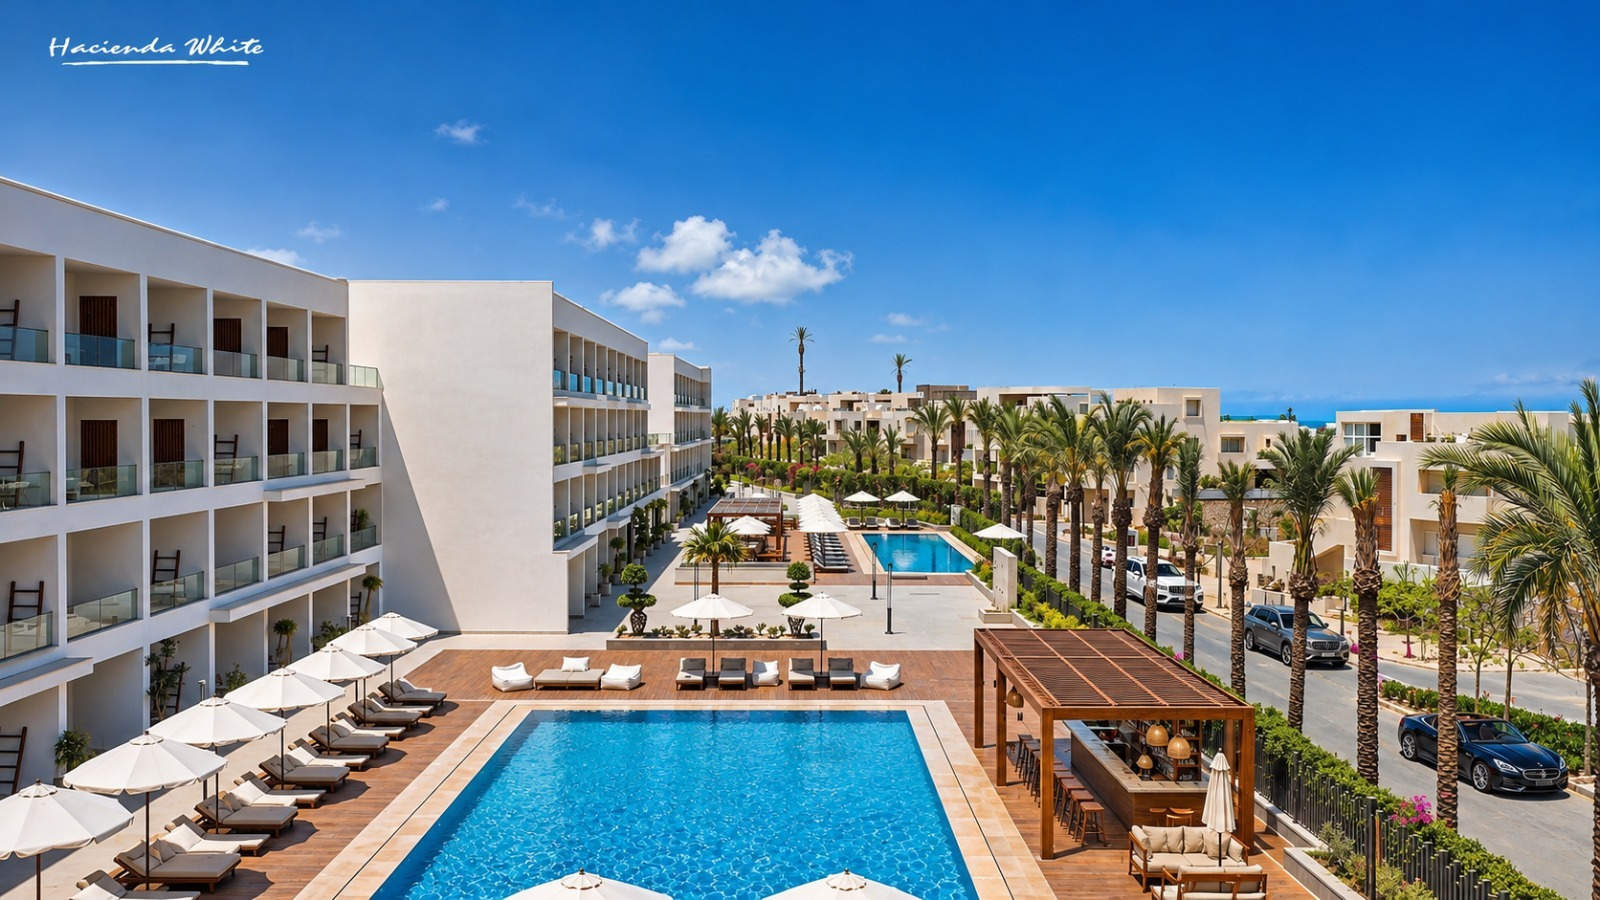
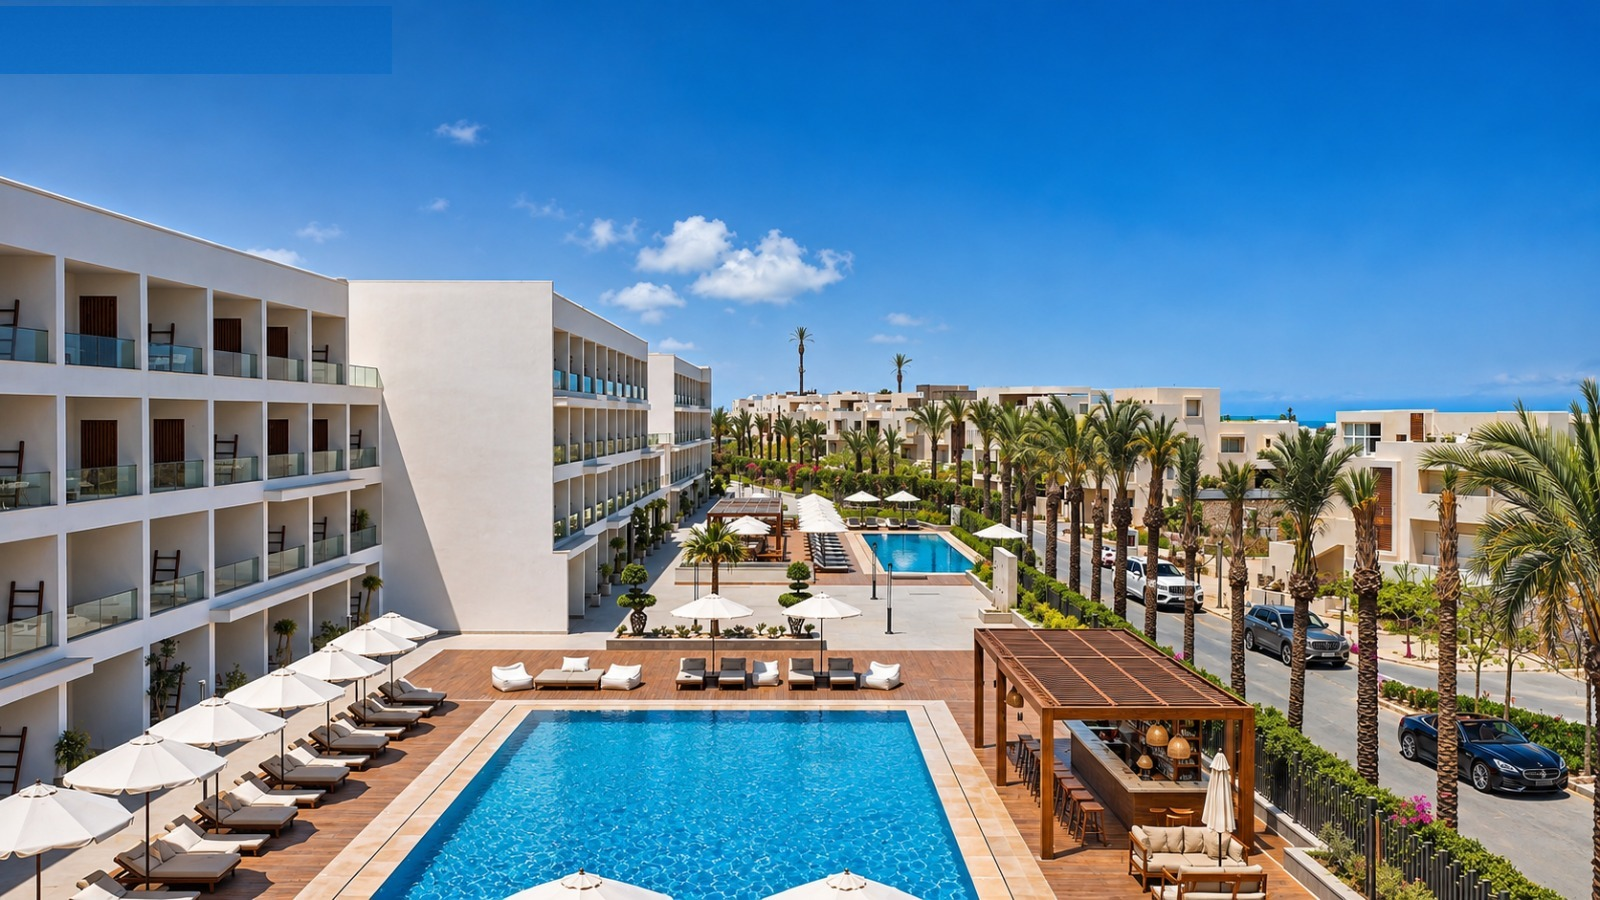
Hero photo: remove top-left mark

Changed region(s): [[0.0, 0.0, 0.1875, 0.0933]]

diff --git a/sw.js b/sw.js
@@ -1,4 +1,4 @@
-const C='casawhite-v82';
+const C='casawhite-v83';
 const A=['./','index.html','manifest.json','bar1.jpg','poolbar1.jpg','poolbar2.jpg','beach.jpg','dining.jpg','dining2.jpg','dining3.jpg','dining4.jpg','food1.jpg','food2.jpg','golf1.jpg','golf2.jpg','gym1.jpg','gym2.jpg','gym3.jpg','gym4.jpg','hero.jpg','hero_roof.jpg','icon-192.png','icon-512.png','location.jpg','logo.png','lounge.jpg','gym_lead.jpg','pool2.jpg','pool_aerial.jpg','pool3.jpg','reception.jpg','roof1.jpg','roof2.jpg','rooftop_pool.jpg','room.jpg','rm_twin.jpg','rm_king.jpg','rm_bed.jpg','rm_mirror.jpg','rm_bath.jpg','rm_minibar.jpg','beach_b.jpg','beach_a.jpg','rm_robes.jpg','rm_balc.jpg','shuttle.jpg','terrace1.jpg','terrace2.jpg','terrace3.jpg','lobby1.jpg','lobby2.jpg','lobby_lead.jpg','st_amen.jpg','st_balcony.jpg','st_bed.jpg','st_living.jpg','st_living2.jpg','st_shower.jpg','st_corridor.jpg','st_living3.jpg','st_living4.jpg','br_pool.jpg','br_throw.jpg','br_pendant.jpg','br_twin.jpg','rm_art.jpg','st_pool.jpg','st_hall.jpg','scalini.svg','casacook.png','galambo.svg','tlt.png','kikis.png','plage.png','lucida.jpg','n_lucida1.jpg','n_kikis1.jpg','n_kikis2.jpg','n_scalini1.jpg','n_galambo1.jpg','n_galambo2.jpg','n_lemon1.jpg','n_cc1.jpg','n_cc2.jpg','n_plage1.jpg'];
 self.addEventListener('install',e=>{self.skipWaiting();e.waitUntil(caches.open(C).then(c=>c.addAll(A.map(u=>new Request(u,{cache:'reload'})))).catch(()=>{}))});
 self.addEventListener('activate',e=>e.waitUntil((async()=>{for(const k of await caches.keys()){if(k!==C)await caches.delete(k)}await self.clients.claim();for(const c of await self.clients.matchAll({type:'window'})){try{c.navigate(c.url)}catch(x){}}})()));
